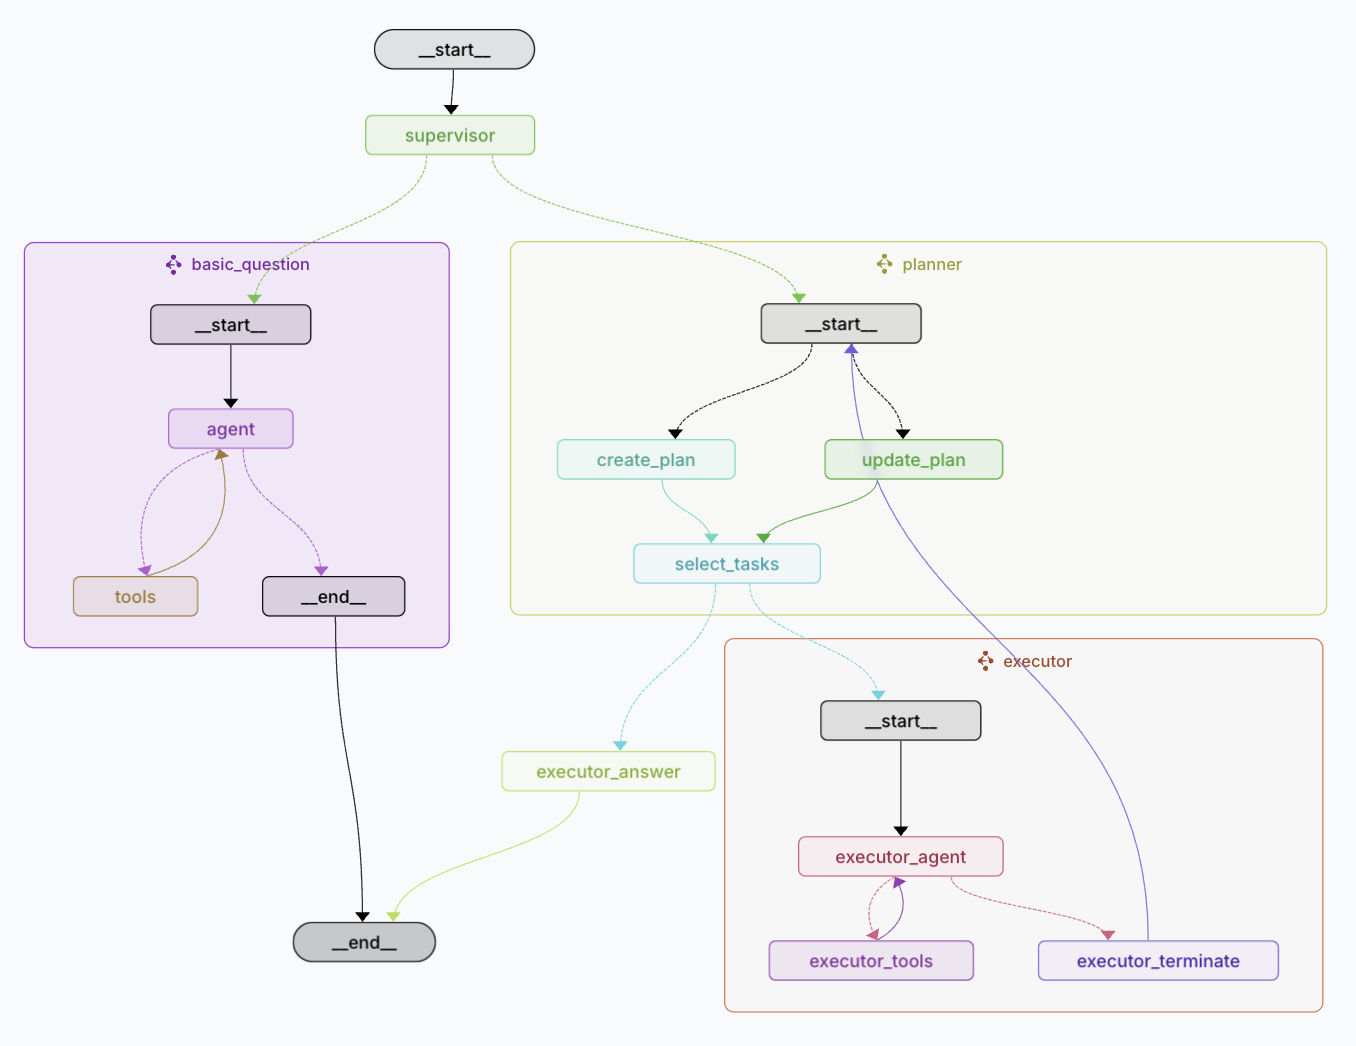
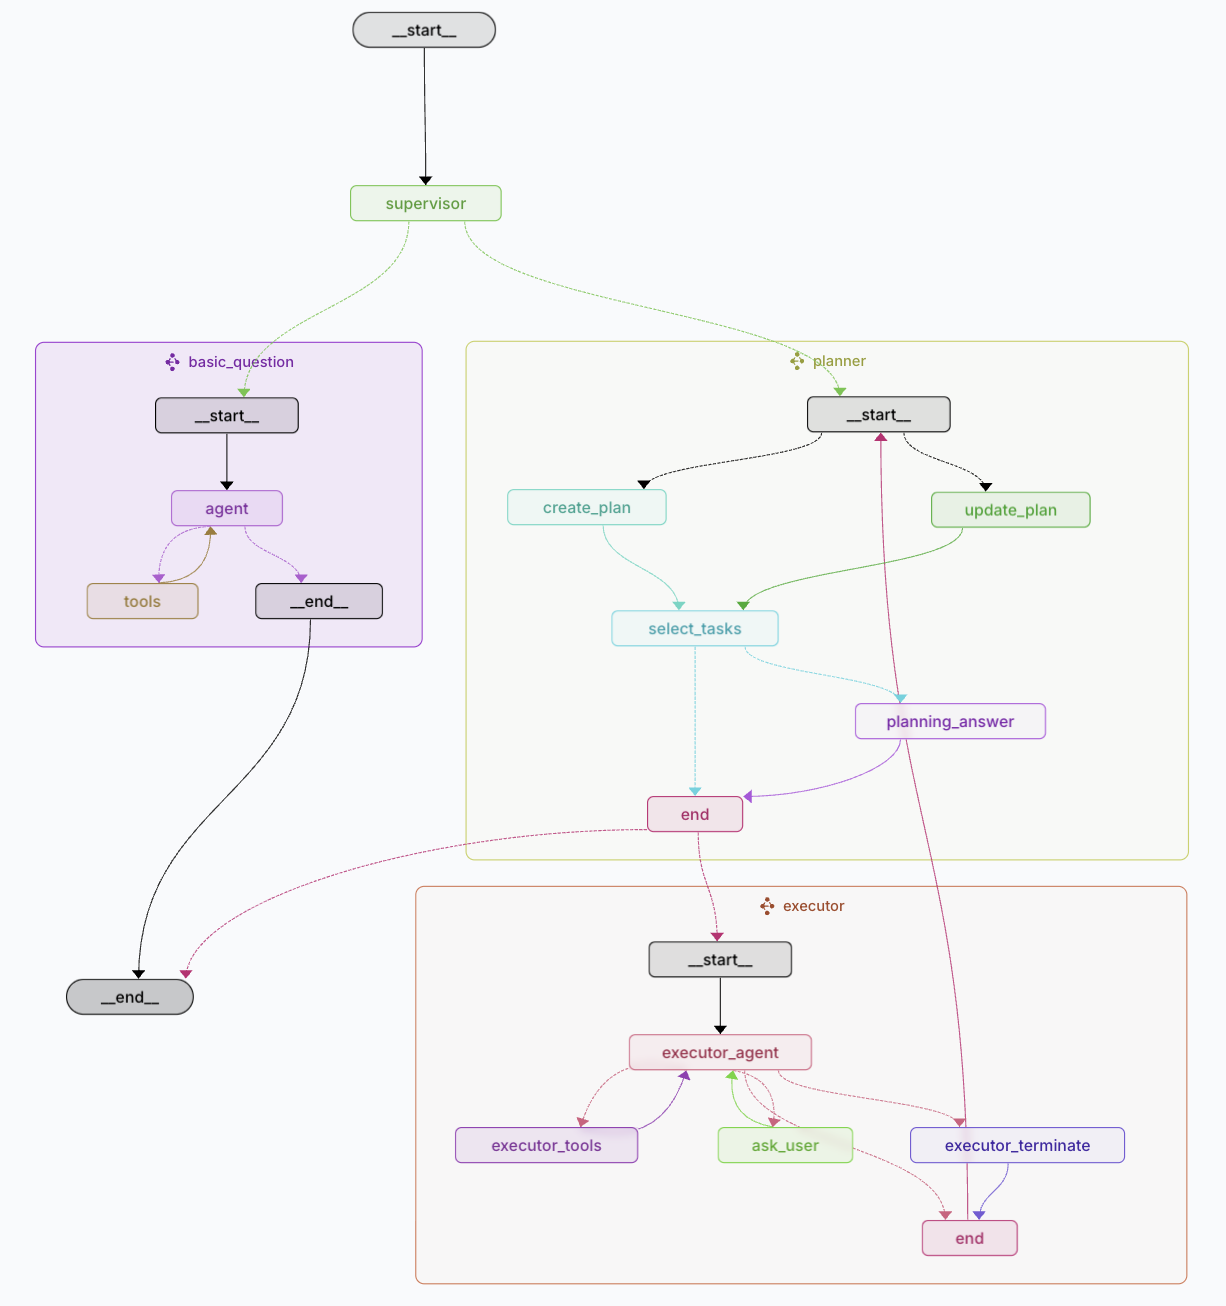
feat: update Planning Agent documentation and images for clarity

diff --git a/packages/core/src/agent/planner/README.md b/packages/core/src/agent/planner/README.md
@@ -71,84 +71,76 @@ All of this works together to provide a powerful but easy-to-use interface for m
 
 ![Planning Agent Simple Workflow](../../../docs/assets/planning-agent-simple.png)
 
-When you ask the Planning Agent to do something, it follows this path:
+Think of the Planning Agent as a smart helper with different departments that work together. Here's the simple picture:
 
-1. **Supervisor**: First, it looks at your request and decides what kind of help you need.
+1. **Supervisor**: This is like the receptionist who looks at your request and decides which department should handle it.
 
-2. It then takes one of three routes:
+2. The receptionist then sends your request down one of these paths:
 
-   - **Basic Question Path**: For simple questions that don't need complex planning
-   - **Planning Path**: For tasks that need multiple steps to execute
-   - **Executor Answer**: After completing tasks, it provides a clear response
+   - **Basic Question Path**: For simple questions like "What's my balance?" - gets you a quick answer
+   - **Planner Path**: For complex requests like "Transfer tokens between blockchains" - needs careful planning
+   - **Executor Path**: For actually carrying out the plans that were made
 
-3. All paths eventually lead to a complete answer to your request.
+3. No matter which path your request takes, you'll always get a clear answer at the end.
 
-This approach helps the Planning Agent handle both simple requests efficiently and complex tasks thoroughly.
+This smart system means you get fast answers for simple questions and careful handling for complex tasks.
 
 ### The Decision-Making Supervisor
 
-The Supervisor is a critical component that acts as the "brain" of the Planning Agent. It analyzes your request and makes a key decision:
+The Supervisor is like a smart traffic controller for your requests. It asks:
 
-- Is this a simple question that can be answered directly?
-- Or is this a complex request that requires planning and execution?
+- Can this be answered with a simple lookup? (Basic Question)
+- Or does this need a step-by-step plan to complete? (Planning)
 
-The Supervisor looks for specific indicators in your request:
+Here's what the Supervisor looks for:
 
 - **Simple Questions** (Basic Question Path):
 
-  - Information requests: "What's my ETH balance?"
-  - Status queries: "Show me my recent transactions"
-  - Market information: "What's the current price of Bitcoin?"
-  - Account details: "Which wallets do I have connected?"
-  - Basic explanations: "How does staking work?"
+  - Checking balances: "What's my ETH balance?"
+  - Transaction history: "Show me my recent transactions"
+  - Price checks: "What's the current price of Bitcoin?"
+  - Account info: "Which wallets do I have connected?"
+  - Learning: "How does staking work?"
 
 - **Complex Requests** (Planning Path):
-  - Any blockchain transaction: "Transfer 0.5 ETH to this address"
-  - Multi-step operations: "Swap USDC to ETH and bridge to Polygon"
-  - Actions requiring approvals: "Stake my ETH in Lido"
+  - Any money movement: "Transfer 0.5 ETH to this address"
+  - Multi-step tasks: "Swap USDC to ETH and bridge to Polygon"
+  - Actions needing permission: "Stake my ETH in Lido"
   - Cross-chain operations: "Move my assets from Ethereum to Solana"
-  - Financial strategies: "Rebalance my portfolio to 60% ETH and 40% BTC"
+  - Portfolio management: "Rebalance my portfolio to 60% ETH and 40% BTC"
 
-By making this initial distinction, the Supervisor ensures:
+This smart sorting system gives you:
 
-- Simple questions get quick, direct answers without unnecessary planning
-- Complex requests get the detailed planning and careful execution they require
-- Your time isn't wasted with complex planning for straightforward questions
-- Critical operations have proper safeguards and error handling
-
-This intelligent routing system gives you the best of both worlds: speed for simple questions and thoroughness for complex tasks.
+- Quick answers when speed matters
+- Careful planning when accuracy is crucial
+- The right level of attention for every request
 
 ### The Expanded View
 
 ![Planning Agent Expanded Workflow](../../../docs/assets/planning-agent-expanded.png)
 
-Behind the scenes, the Planning Agent's workflow is more intricate:
+Behind the scenes, there's a bit more happening. Imagine a company with specialized departments:
 
-1. **Supervisor**: Analyzes your request and routes it to the appropriate system.
+1. **Supervisor**: The main desk that receives all requests and directs traffic.
 
-2. If it's a **Basic Question**:
+2. If your request is a **Basic Question**:
 
-   - The agent calls relevant tools to find information
-   - It crafts a response directly without complex planning
-   - This path is fast and efficient for simple queries
+   - It goes to the "agent" department that can quickly look up information
+   - This team has access to various "tools" to find what you need
+   - You get a direct answer without any complicated processes
+   - The path ends with a clear response
 
-3. If it needs **Planning**:
+3. If your request needs **Planning**:
 
-   - **Create Plan**: Breaks down your request into specific tasks
-   - **Update Plan**: Continuously refines the plan as tasks complete
-   - **Select Tasks**: Determines which tasks to execute next
-   - These components work together to create and manage a smart execution plan
+   - **Create Plan**: Like a project manager breaking down your big request into smaller tasks
+   - **Update Plan**: Adjusts the plan as each step completes (like when a map reroutes if there's traffic)
+   - **Select Tasks**: Chooses which task to do next in the right order
+   - **Planning Answer**: Prepares a clear explanation of what happened
 
-4. For the **Execution**:
+4. For actually doing the tasks, there's the **Executor**:
+   - **Executor Agent**: The team that carries out the planned tasks
+   - **Executor Tools**: Special equipment for interacting with different blockchains
+   - **Ask User**: Sometimes checks with you if they need more information
+   - **Executor Terminate**: Can stop the process if needed (like if something goes wrong)
 
-   - **Executor Agent**: Takes the selected tasks and executes them
-   - Uses specialized tools to interact with blockchains
-   - Can terminate if needed (e.g., if errors can't be resolved)
-   - Reports results back to the planner
-
-5. Finally, the **Executor Answer** system:
-   - Collects all results from the execution
-   - Translates technical details into human-friendly language
-   - Presents you with a clear summary of what was accomplished
-
-This multi-stage process allows the Planning Agent to handle very complex blockchain operations while keeping you informed every step of the way. Most importantly, all this complexity happens behind the scenes, so you only need to make a simple request to get powerful results.
+All these teams work together seamlessly - you just ask what you want, and the Planning Agent handles all this complexity behind the scenes. You only see the final result: your task completed successfully with a clear explanation of what happened.
